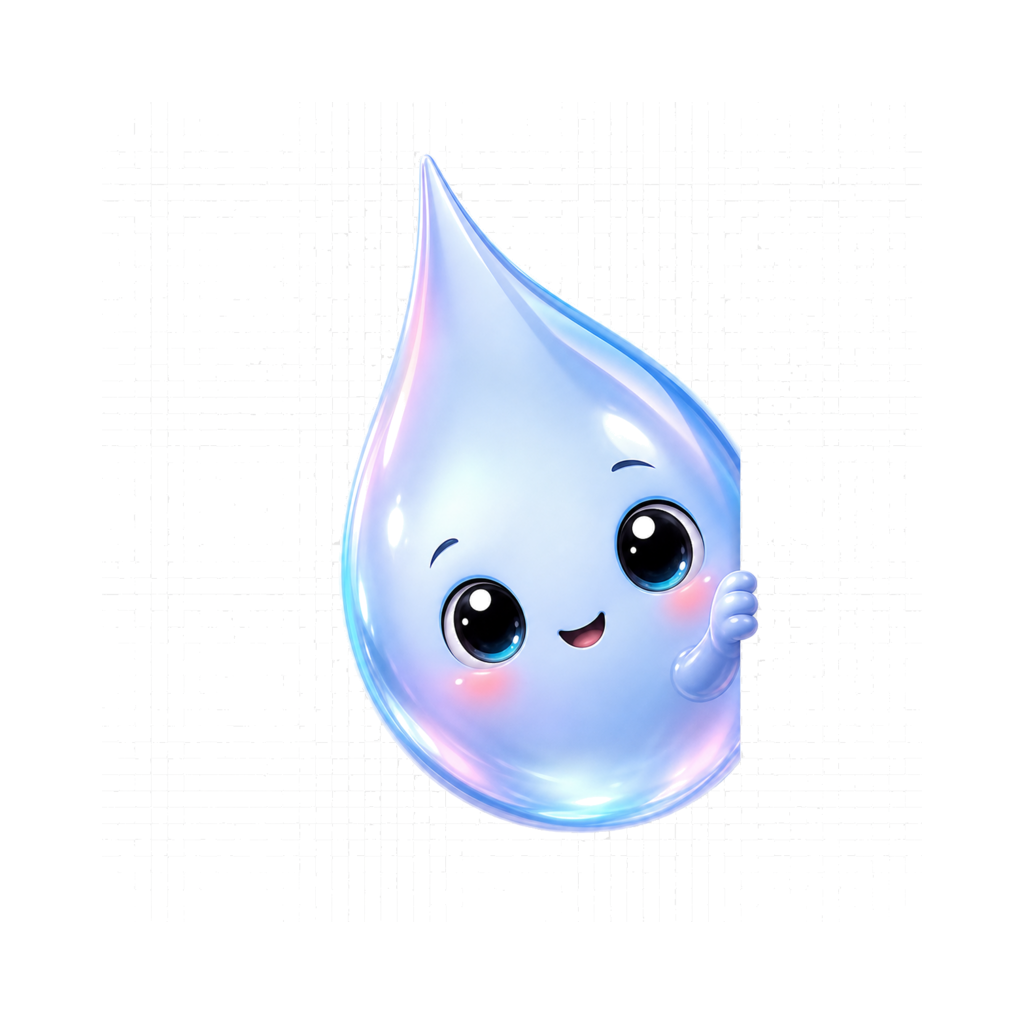
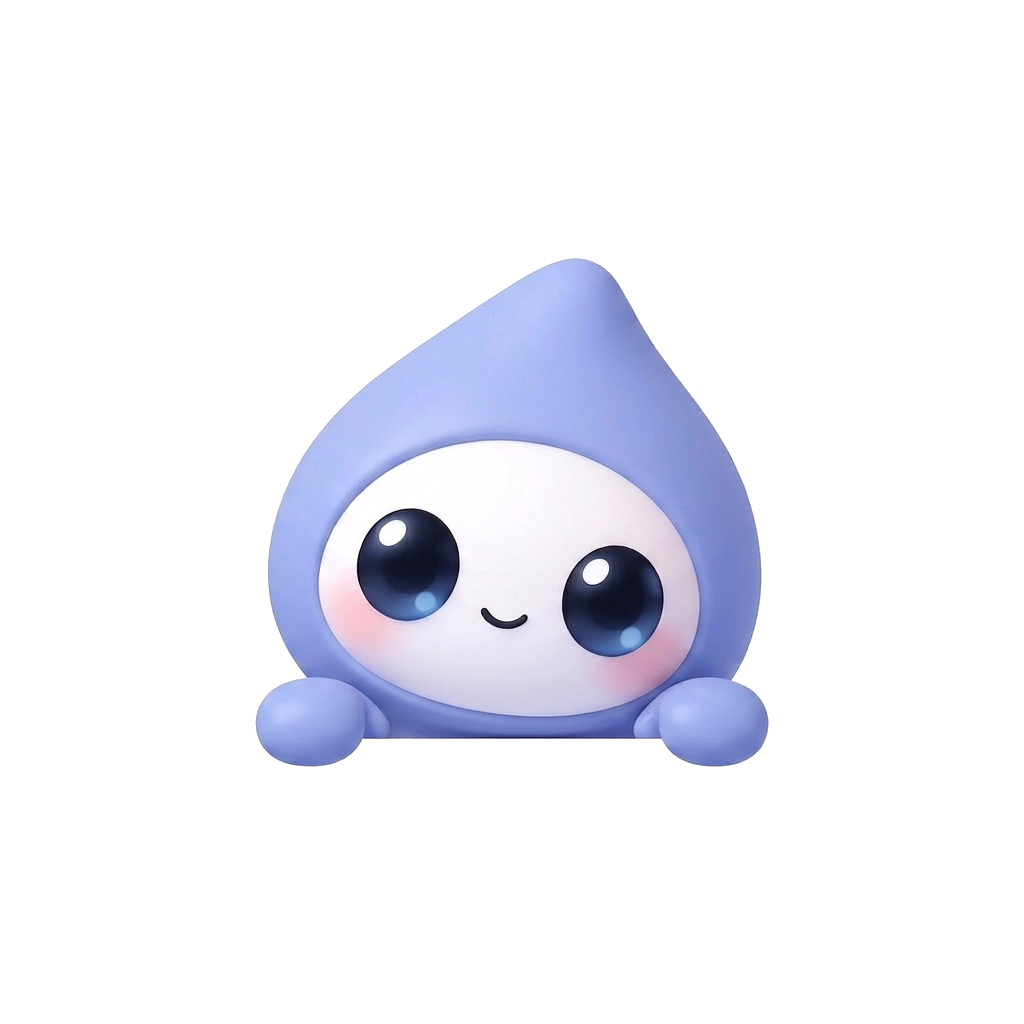
Маскот: возвращён первоначальный стиль из IMG_0966 + три тарифа подписки
Маскот
- Новый пак поз (hello, calm, hug, proud, peek) в оригинальном стиле IMG_0966:
  матовая капля-капюшон периwinkle со снежно-белым лицом, без торса и ножек —
  как в первоначальном логотипе. Сгенерировано от референса IMG_0966.jpeg,
  исходники лежат в app/assets/mascot/_gen/.
- postprocess-mascot.py: фон убирается заливкой с краёв (floodfill от углов),
  а не глобальным -transparent — иначе белое лицо пробивалось насквозь.
- «Навыки»: маскот больше НЕ обрезан. Ассет выглядывает из-за облака целиком:
  лапки лежат на кромке непрозрачного облака (как в логотипе), перекрытие
  настраивается одной переменной --peek-dip в app/css/app.css.

Подписка: три периода
- 1 месяц — 200 ₽, 3 месяца — 500 ₽, 6 месяцев — 900 ₽.
- Веб: выбор тарифа карточками на пейволе и в шите оплаты (app/js/app.js),
  тарифы в app/config.js (subscription.plans), deep-link ?start=pay_<id>.
- Бот: PLANS в bot/src/app.js, /pay с inline-клавиатурой тарифов,
  callback pay:<id>, /start pay_<id> из веба, Tribute-ссылка с нужной суммой
  и period_days, вебхук активирует подписку на дни оплаченного тарифа.
- content.json (app + bot seed): price_note и version 5.

Changed region(s): [[0.25, 0.1562, 0.75, 0.8125]]

diff --git a/bot/src/app.js b/bot/src/app.js
@@ -28,6 +28,15 @@ const ADMINS = new Set((process.env.ADMIN_IDS || '').split(',').map(s => s.trim(
 const PORT = Number(process.env.PORT || 8080);
 const PRICE = 200;
 const TRIAL_DAYS = 7;
+/* Тарифы подписки: 1 месяц 200 ₽, 3 месяца 500 ₽, 6 месяцев 900 ₽.
+   id совпадают с app/config.js (subscription.plans) и deep-link ?start=pay_<id>. */
+const PLANS = [
+  { id: 'm1', label: '1 месяц', price: 200, days: 30 },
+  { id: 'm3', label: '3 месяца', price: 500, days: 90 },
+  { id: 'm6', label: '6 месяцев', price: 900, days: 180 },
+];
+const planById = (id) => PLANS.find(p => p.id === id) || PLANS[0];
+const plansLine = () => PLANS.map(p => `${p.label} — ${p.price} ₽`).join(', ');
 const APP_DIR = path.join(__dirname, '..', '..', 'app');
 
 if (!TOKEN) {
@@ -113,8 +122,11 @@ bot.command('start', async (ctx) => {
   const u = getUser(ctx);
   if (!u.trial_start) u.trial_start = Date.now();
   save();
+  // deep-link из веб-версии: ?start=pay_m1|pay_m3|pay_m6 — сразу ведём к оплате тарифа
+  const payload = String(ctx.match || '').trim();
+  if (payload.startsWith('pay_')) return payFlow(ctx, planById(payload.slice(4)));
   const img = MASCOT('hello');
-  const text = `Привет, ${u.name}! Я Дибитишка — слезинка, которая помогает дружить с чувствами.\n\nВо мне: пять блоков практик осознанности и ДПТ, практика дня, мягкие альтернативы, дневник эмоций, письменные задания, чат поддержки и печатная тетрадь.\n\nПервая неделя бесплатно, потом ${PRICE} ₽ в месяц. Оплата — командой /pay.\n\nВеб-версия: открой мини-приложение или зайди по коду — команда /code.`;
+  const text = `Привет, ${u.name}! Я Дибитишка — слезинка, которая помогает дружить с чувствами.\n\nВо мне: пять блоков практик осознанности и ДПТ, практика дня, мягкие альтернативы, дневник эмоций, письменные задания, чат поддержки и печатная тетрадь.\n\nПервая неделя бесплатно, потом ${plansLine()}. Оплата — командой /pay.\n\nВеб-версия: открой мини-приложение или зайди по коду — команда /code.`;
   if (img) await ctx.replyWithPhoto(img, { caption: text });
   else await ctx.reply(text);
 });
@@ -176,6 +188,19 @@ bot.command('status', (ctx) => {
   ctx.reply(`Профиль: ${u.name}\nПодписка: ${left}\nНапоминания: ${u.reminder.on ? u.reminder.time : 'выкл'}`);
 });
 
+/* Оплата выбранного тарифа: создаёт ссылку Tribute на нужный период. */
+async function payFlow(ctx, plan) {
+  const u = getUser(ctx);
+  if (!u.trial_start) u.trial_start = Date.now();
+  save();
+  if (!tribute.tributeConfigured()) {
+    return ctx.reply('Оплата подключается: владелец приложения впишет ключ Tribute API на бот-хосте, и эта кнопка оживёт. Первая неделя у тебя уже идёт — практикуй спокойно.');
+  }
+  const link = await tribute.createSubscriptionLink(u.id, plan);
+  if (!link?.url) return ctx.reply('Не смог создать ссылку Tribute. Попробуй позже или напиши владельцу приложения.');
+  ctx.reply(`Подписка Дибитишки: ${plan.label} — ${plan.price} ₽.\nОплата: ${link.url}\nПосле оплаты я активирую подписку сам на ${plan.days} дн.`);
+}
+
 bot.command('pay', async (ctx) => {
   const u = getUser(ctx);
   if (!u.trial_start) u.trial_start = Date.now();
@@ -183,9 +208,26 @@ bot.command('pay', async (ctx) => {
   if (!tribute.tributeConfigured()) {
     return ctx.reply('Оплата подключается: владелец приложения впишет ключ Tribute API на бот-хосте, и эта кнопка оживёт. Первая неделя у тебя уже идёт — практикуй спокойно.');
   }
-  const link = await tribute.createSubscriptionLink(u.id, PRICE);
-  if (!link?.url) return ctx.reply('Не смог создать ссылку Tribute. Попробуй позже или напиши владельцу приложения.');
-  ctx.reply(`Подписка Дибитишки: ${PRICE} ₽ в месяц.\nОплата: ${link.url}\nПосле оплаты я активирую подписку сам.`);
+  const kb = new InlineKeyboard();
+  PLANS.forEach(p => kb.text(`${p.label} — ${p.price} ₽`, 'pay:' + p.id).row());
+  ctx.reply(`Подписка Дибитишки: ${plansLine()}.\nВыбери срок — сделаю ссылку Tribute. После оплаты я активирую подписку сам.`, { reply_markup: kb });
+});
+
+/* кнопки тарифов в /pay */
+bot.on('callback_query:data', async (ctx) => {
+  const data = ctx.callbackQuery.data || '';
+  if (!data.startsWith('pay:')) return;
+  const plan = planById(data.slice(4));
+  await ctx.answerCallbackQuery();
+  if (!tribute.tributeConfigured()) {
+    return ctx.editMessageText('Оплата подключается: владелец приложения впишет ключ Tribute API на бот-хосте, и кнопки оживут. Первая неделя у тебя уже идёт — практикуй спокойно.').catch(() => {});
+  }
+  const u = getUser(ctx);
+  if (!u.trial_start) u.trial_start = Date.now();
+  save();
+  const link = await tribute.createSubscriptionLink(u.id, plan);
+  if (!link?.url) return ctx.editMessageText('Не смог создать ссылку Tribute. Попробуй позже или напиши владельцу приложения.').catch(() => {});
+  ctx.editMessageText(`Подписка Дибитишки: ${plan.label} — ${plan.price} ₽.\nОплата: ${link.url}\nПосле оплаты я активирую подписку сам на ${plan.days} дн.`).catch(() => {});
 });
 
 /* ---------- админ ---------- */
@@ -590,12 +632,16 @@ const server = http.createServer(async (req, res) => {
     req.on('end', () => {
       try {
         const j = JSON.parse(body || '{}');
-        const uid = Number(j.payload?.user_id || j.user_id);
+        // payload может прийти и строкой — Tribute кладёт туда { user_id, plan, days }
+        const pl = typeof j.payload === 'string' ? JSON.parse(j.payload || '{}') : (j.payload || {});
+        const uid = Number(pl.user_id || j.user_id);
         const user = db.users[uid];
         if (user && (j.status === 'succeeded' || j.paid)) {
-          user.premium_until = Math.max(Date.now(), user.premium_until || 0) + 30 * 86400000;
+          const plan = PLANS.find(p => p.id === (pl.plan || j.plan));
+          const days = Number(pl.days || j.days || (plan && plan.days) || 30);
+          user.premium_until = Math.max(Date.now(), user.premium_until || 0) + days * 86400000;
           save();
-          bot.api.sendMessage(uid, 'Оплата прошла! Подписка активна на месяц. Спасибо, что держишь меня в форме 💧').catch(() => {});
+          bot.api.sendMessage(uid, `Оплата прошла! Подписка активна на ${days} дн. (${plan ? plan.label : 'месяц'}). Спасибо, что держишь меня в форме 💧`).catch(() => {});
         }
         return json(res, 200, { ok: true });
       } catch (e) {

diff --git a/app/js/app.js b/app/js/app.js
@@ -117,6 +117,17 @@ const trialDaysLeft = () => {
   return Math.max(0, Math.ceil((TRIAL_MS - (Date.now() - state.trial_started_at)) / 86400000));
 };
 
+/* ---------- тарифы подписки: 1 мес 200 ₽ · 3 мес 500 ₽ · 6 мес 900 ₽ ---------- */
+const PLANS = () => (Array.isArray(CFG.subscription?.plans) && CFG.subscription.plans.length)
+  ? CFG.subscription.plans
+  : [{ id: 'm1', title: '1 месяц', per: 'в месяц', price_ru: '200 ₽', days: 30, note: '200 ₽ в месяц' }];
+let pickedPlanId = null;
+const pickedPlan = () => {
+  const plans = PLANS();
+  return plans.find(p => p.id === pickedPlanId) || plans[0];
+};
+const plansLine = () => PLANS().map(p => `${p.price_ru} / ${p.title}`).join(' · ');
+
 /* ---------- content ---------- */
 let CONTENT = null;
 const API_BASE = (CFG.bot_public_url || '').trim().replace(/\/$/, '');
@@ -624,7 +635,7 @@ function screenWelcome() {
   const foot = el('div', { class: 'onboard-foot' }, dots, nextBtn);
   const cta = el('button', { class: 'btn onboard-cta hidden' }, 'Начать бесплатную неделю', el('span', { class: 'arr' }, '→'));
   const note = el('p', { class: 'onboard-note' },
-    `Первая неделя бесплатно, потом ${CFG.subscription?.price_ru || '200 ₽'} ${CFG.subscription?.period || 'в месяц'}.`
+    `Первая неделя бесплатно, потом ${plansLine()}.`
   );
   const finish = () => {
     state.onboarded = true;
@@ -650,25 +661,58 @@ function screenWelcome() {
   return scr;
 }
 
+/* Выбор периода подписки: три карточки-тарифа, выбранный подсвечивается. */
+function planPicker() {
+  const plans = PLANS();
+  if (!plans.some(p => p.id === pickedPlanId)) pickedPlanId = plans[0].id;
+  const wrap = el('div', { class: 'plans' });
+  const rows = plans.map(p => {
+    const row = el('button', {
+      class: 'plan' + (p.id === pickedPlanId ? ' on' : ''), type: 'button',
+      onclick: () => {
+        pickedPlanId = p.id; haptic('light');
+        rows.forEach(r => r.el.classList.toggle('on', r.id === p.id));
+      }
+    },
+      el('span', { class: 'plan-main' },
+        el('b', {}, p.title, p.badge ? el('span', { class: 'plan-badge' }, p.badge) : null),
+        el('span', {}, p.note || p.per || '')),
+      el('span', { class: 'plan-price' }, p.price_ru),
+      el('span', { class: 'plan-dot' }, '')
+    );
+    return { id: p.id, el: row };
+  });
+  rows.forEach(r => wrap.append(r.el));
+  return wrap;
+}
+
 function paywallCard(scr) {
   const c = el('div', { class: 'card soft' });
   c.append(
     mascot('hug', mline('paywall')),
     el('h3', { style: 'margin-top:12px' }, 'Подписка Дибитишки'),
-    el('p', {}, `${CFG.subscription?.price_ru || '200 ₽'} ${CFG.subscription?.period || 'в месяц'} · первая неделя бесплатно. Оплата идёт через Tribute прямо из бота.`),
-    el('button', { class: 'btn', style: 'margin-top:10px', onclick: openPay }, 'Оформить подписку')
+    el('p', {}, `Первая неделя бесплатно. Дальше — выбери период, как удобнее: ${plansLine()}. Оплата идёт через Tribute прямо из бота.`),
+    planPicker(),
+    el('button', { class: 'btn', style: 'margin-top:12px', onclick: () => openPay() }, 'Оформить подписку')
   );
   scr.append(c);
 }
 
-function openPay() {
+function openPay(planId) {
   haptic('medium');
-  const u = CFG.bot_username ? `https://t.me/${CFG.bot_username}?start=pay` : 'https://t.me/';
+  if (planId) pickedPlanId = planId;
   sheet((sh, close) => {
+    const payBtn = el('button', { class: 'btn', style: 'margin-top:12px', onclick: () => {
+      const p = pickedPlan();
+      const u = CFG.bot_username ? `https://t.me/${CFG.bot_username}?start=pay_${p.id}` : 'https://t.me/';
+      try { tg && tg.openTelegramLink ? tg.openTelegramLink(u) : window.open(u); } catch (e) { window.open(u); }
+      close();
+    } }, 'Оплатить в Telegram');
     sh.append(
       mascot('hug', 'Оплата живёт в боте: он создаст ссылку Tribute и сам активирует подписку.'),
-      el('p', {}, `${CFG.subscription?.price_ru || '200 ₽'} ${CFG.subscription?.period || 'в месяц'}. Первая неделя — бесплатно, она уже идёт с момента первого входа.`),
-      el('button', { class: 'btn', style: 'margin-top:12px', onclick: () => { try { tg && tg.openTelegramLink ? tg.openTelegramLink(u) : window.open(u); } catch (e) { window.open(u); } close(); } }, 'Оплатить в Telegram'),
+      el('p', {}, `Выбери период — первая неделя уже бесплатная, она идёт с момента первого входа. ${plansLine()}.`),
+      planPicker(),
+      payBtn,
       el('button', { class: 'btn secondary', style: 'margin-top:8px', onclick: () => { close(); toast('Напиши боту /start, если подписка уже есть.'); } }, 'У меня уже есть подписка')
     );
   });
@@ -1239,7 +1283,7 @@ function screenProfile() {
   const subRows = [];
   subRows.push(el('div', { class: 'row' },
     el('span', { class: 'ric c-grass' }, icon('card')),
-    el('span', { class: 'rmain' }, el('b', {}, (state.premium_until || 0) > Date.now() ? 'Подписка активна' : state.trial_started_at && dl > 0 ? `Бесплатная неделя: ещё ${dl} дн.` : 'Подписка не активна'), el('span', {}, `${CFG.subscription?.price_ru || '200 ₽'} ${CFG.subscription?.period || 'в месяц'} · Tribute`))
+    el('span', { class: 'rmain' }, el('b', {}, (state.premium_until || 0) > Date.now() ? 'Подписка активна' : state.trial_started_at && dl > 0 ? `Бесплатная неделя: ещё ${dl} дн.` : 'Подписка не активна'), el('span', {}, `${plansLine()} · Tribute`))
   ));
   if (!isPremium() || dl !== Infinity) subRows.push(el('button', { class: 'row', onclick: openPay },
     el('span', { class: 'ric c-rose' }, icon('lock')),

diff --git a/app/css/app.css b/app/css/app.css
@@ -341,10 +341,14 @@ a{color:inherit}
 
 /* ---------- маскот + реплика ---------- */
 .mascot-wrap{display:flex; align-items:center; gap:20px; margin:30px 0 12px}
-.mascot-wrap.peeking{display:flex; align-items:flex-end; gap:0; margin:32px 0 18px; position:relative}
-.mascot-wrap.peeking .mascot{width:220px; height:220px; margin-right:-36px; z-index:2; animation:float 5.5s ease-in-out infinite}
-.mascot-wrap.peeking .bubble{flex:1; z-index:1; padding-left:46px; min-height:110px; display:flex; flex-direction:column; justify-content:center; font-size:17px}
-@media (max-width:420px){ .mascot-wrap.peeking .mascot{width:168px; height:168px; margin-right:-28px} .mascot-wrap.peeking .bubble{padding-left:36px; font-size:16px} }
+/* «Навыки»: маскот выглядывает из-за облака. Персонаж НЕ обрезан: ассет берётся
+   целиком, а нижняя часть уходит за непрозрачное облако — лапки лежат на его
+   кромке, как в оригинальном логотипе (IMG_0966). Единственная ручка настройки
+   перекрытия — --peek-dip (доля высоты маскота, спрятанная за облаком). */
+.mascot-wrap.peeking{--peek-size:210px; --peek-dip:.24; position:relative; display:flex; flex-direction:column; align-items:flex-start; gap:0; margin:26px 0 18px}
+.mascot-wrap.peeking .mascot{width:var(--peek-size); height:var(--peek-size); margin:0 0 calc(var(--peek-size) * var(--peek-dip) * -1) 10px; z-index:1; animation:float 5.5s ease-in-out infinite}
+.mascot-wrap.peeking .bubble{position:relative; z-index:2; width:100%; flex:none; background:var(--card); min-height:110px; display:flex; flex-direction:column; justify-content:center; font-size:17px}
+@media (max-width:420px){ .mascot-wrap.peeking{--peek-size:164px; --peek-dip:.22} .mascot-wrap.peeking .bubble{font-size:16px} }
 .mascot{width:210px; height:210px; object-fit:contain; object-position:center; flex:none;
   animation:float 5.5s ease-in-out infinite;
   filter:drop-shadow(0 0 34px rgba(255,255,255,.9)) drop-shadow(0 20px 28px rgba(47,125,246,.28))}
@@ -356,6 +360,21 @@ a{color:inherit}
   box-shadow:var(--shadow-sm); padding:17px 19px; font-size:16px; line-height:1.6; color:var(--ink); flex:1}
 [data-theme="dark"] .bubble{border-color:var(--glass-line)}
 .bubble small{display:block; color:var(--ink-3); font-size:11.5px; margin-top:8px; text-transform:uppercase; letter-spacing:.09em; font-weight:700}
+
+/* ---------- тарифы подписки ---------- */
+.plans{display:flex; flex-direction:column; gap:10px; margin-top:12px}
+.plan{display:flex; align-items:center; gap:12px; width:100%; text-align:left; font:inherit; color:var(--ink);
+  background:var(--card-2); border:1.5px solid var(--line); border-radius:16px; padding:12px 14px; cursor:pointer;
+  transition:border-color .15s, background .15s, box-shadow .15s}
+.plan-main{flex:1; min-width:0; display:flex; flex-direction:column; gap:2px}
+.plan-main b{font-size:15.5px; line-height:1.25}
+.plan-main span{font-size:12.5px; color:var(--ink-2); line-height:1.35}
+.plan-price{font-weight:700; font-size:16px; letter-spacing:-.01em; flex:none}
+.plan-dot{flex:none; width:20px; height:20px; border-radius:50%; border:2px solid var(--ink-3); background:var(--card); transition:box-shadow .15s, border-color .15s}
+.plan.on{border-color:var(--accent); background:var(--accent-soft); box-shadow:var(--shadow-sm)}
+.plan.on .plan-dot{border-color:var(--accent); box-shadow:inset 0 0 0 5px var(--accent)}
+.plan-badge{display:inline-block; vertical-align:2px; font-size:10.5px; font-weight:700; text-transform:uppercase; letter-spacing:.08em;
+  color:var(--accent-deep); background:#fff; border:1px solid var(--accent-soft); border-radius:999px; padding:2px 8px; margin-left:8px}
 
 /* ---------- кольцо прогресса ---------- */
 .ring{position:relative; width:52px; height:52px; flex:none}

diff --git a/bot/src/tribute.js b/bot/src/tribute.js
@@ -12,18 +12,22 @@ const KEY = () => process.env.TRIBUTE_API || '';
 
 export const tributeConfigured = () => !!KEY();
 
-/** Создать ссылку на оплату подписки. Возвращает { url } или null. */
-export async function createSubscriptionLink(userId, amountRub = 200, period = 'month') {
+/** Создать ссылку на оплату подписки на выбранный тариф.
+    plan: { id: 'm1'|'m3'|'m6', label, price, days } (см. PLANS в bot/src/app.js).
+    Возвращает { url } или null. */
+export async function createSubscriptionLink(userId, plan = { id: 'm1', label: '1 месяц', price: 200, days: 30 }) {
   if (!tributeConfigured()) return null;
+  const amountRub = plan.price || 200;
+  const periodDays = plan.days || 30;
   try {
     const r = await fetch(`${BASE}/v1/payments/links`, {
       method: 'POST',
       headers: { 'Content-Type': 'application/json', 'Authorization': `Bearer ${KEY()}` },
       body: JSON.stringify({
         amount: amountRub * 100, currency: 'RUB',
-        description: 'Дибитишка · подписка на месяц',
-        payload: JSON.stringify({ user_id: userId, period }),
-        type: 'subscription', period_days: 30, trial_days: 0
+        description: `Дибитишка · подписка ${plan.label || 'на месяц'}`,
+        payload: JSON.stringify({ user_id: userId, plan: plan.id || 'm1', days: periodDays }),
+        type: 'subscription', period_days: periodDays, trial_days: 0
       })
     });
     if (!r.ok) { console.error('[tribute] link error', r.status, await r.text()); return null; }

diff --git a/app/config.js b/app/config.js
@@ -14,7 +14,16 @@ window.DIBI_CONFIG = {
   bot_public_url: "",
 
   // Подписка: цифры для пейвола. Сам платёж создаёт бот через Tribute API.
-  subscription: { price_ru: "200 ₽", period: "в месяц", trial_days: 7 },
+  // plans — три периода: 1 месяц 200 ₽, 3 месяца 500 ₽, 6 месяцев 900 ₽.
+  // id совпадают с тарифами бота (bot/src/app.js: PLANS) и deep-link ?start=pay_<id>.
+  subscription: {
+    price_ru: "200 ₽", period: "в месяц", trial_days: 7,
+    plans: [
+      { id: "m1", title: "1 месяц", per: "в месяц", price_ru: "200 ₽", days: 30, note: "200 ₽ в месяц" },
+      { id: "m3", title: "3 месяца", per: "за 3 месяца", price_ru: "500 ₽", days: 90, note: "≈167 ₽ в месяц · выгода 100 ₽", badge: "выгоднее" },
+      { id: "m6", title: "6 месяцев", per: "за 6 месяцев", price_ru: "900 ₽", days: 180, note: "150 ₽ в месяц · выгода 300 ₽", badge: "максимум" }
+    ]
+  },
 
   // Донат разработчикам — разовая поддержка через Tribute (ссылка-приложение).
   donate_url: "https://t.me/tribute/app?startapp=dLSm",

diff --git a/scripts/postprocess-mascot.py b/scripts/postprocess-mascot.py
@@ -1,5 +1,5 @@
 #!/usr/bin/env python3
-"""Build the Air · Glow mascot pack.
+"""Build the mascot pack (original IMG_0966 style: matte droplet-hood, white face).
 
 Sources: app/assets/mascot/_gen/{hello,calm,hug,proud,peek}.png
 Outputs: 1024×1024 PNGs in app/assets/mascot and mirrored bot/assets/mascot.
@@ -20,14 +20,28 @@ def run(*args: str) -> None:
     subprocess.run(["convert", *map(str, args)], check=True)
 
 
+def size_of(path: Path) -> tuple[int, int]:
+    out = subprocess.check_output(["convert", str(path), "-format", "%w %h", "info:"])
+    w, h = out.decode().split()
+    return int(w), int(h)
+
+
 def build_pose(name: str) -> Path:
     source, target = SRC / f"{name}.png", OUT / f"{name}.png"
     if not source.exists():
         raise SystemExit(f"Missing source: {source.relative_to(ROOT)}")
-    # Preserve transparency, trim accidental empty margins, and keep a generous glow-safe inset.
-    run(source, "-alpha", "on", "-fuzz", "2%", "-transparent", "#fefefe",
-        "-fuzz", "2%", "-transparent", "#eeeeee", "-trim", "+repage", "-resize", "820x820>",
-        "-gravity", "center", "-background", "none", "-extent", "1024x1024", target)
+    # Фон убираем ЗАЛИВКОЙ С КРАЁВ (floodfill от четырёх углов), а не глобальным
+    # -transparent: у маскота из IMG_0966 лицо снежно-белое, и глобальный knockout
+    # пробивал бы в нём дырки. Floodfill до лица не добирается — оно замкнуто
+    # контуром капюшона. Дальше: trim случайных полей и glow-safe inset 1024×1024.
+    w, h = size_of(source)
+    corners = [(0, 0), (w - 1, 0), (0, h - 1), (w - 1, h - 1)]
+    args: list[str] = [source, "-alpha", "on", "-fuzz", "8%", "-fill", "none"]
+    for x, y in corners:
+        args += ["-draw", f"color {x},{y} floodfill"]
+    args += ["-trim", "+repage", "-resize", "820x820>",
+             "-gravity", "center", "-background", "none", "-extent", "1024x1024", target]
+    run(*args)
     return target
 
 
